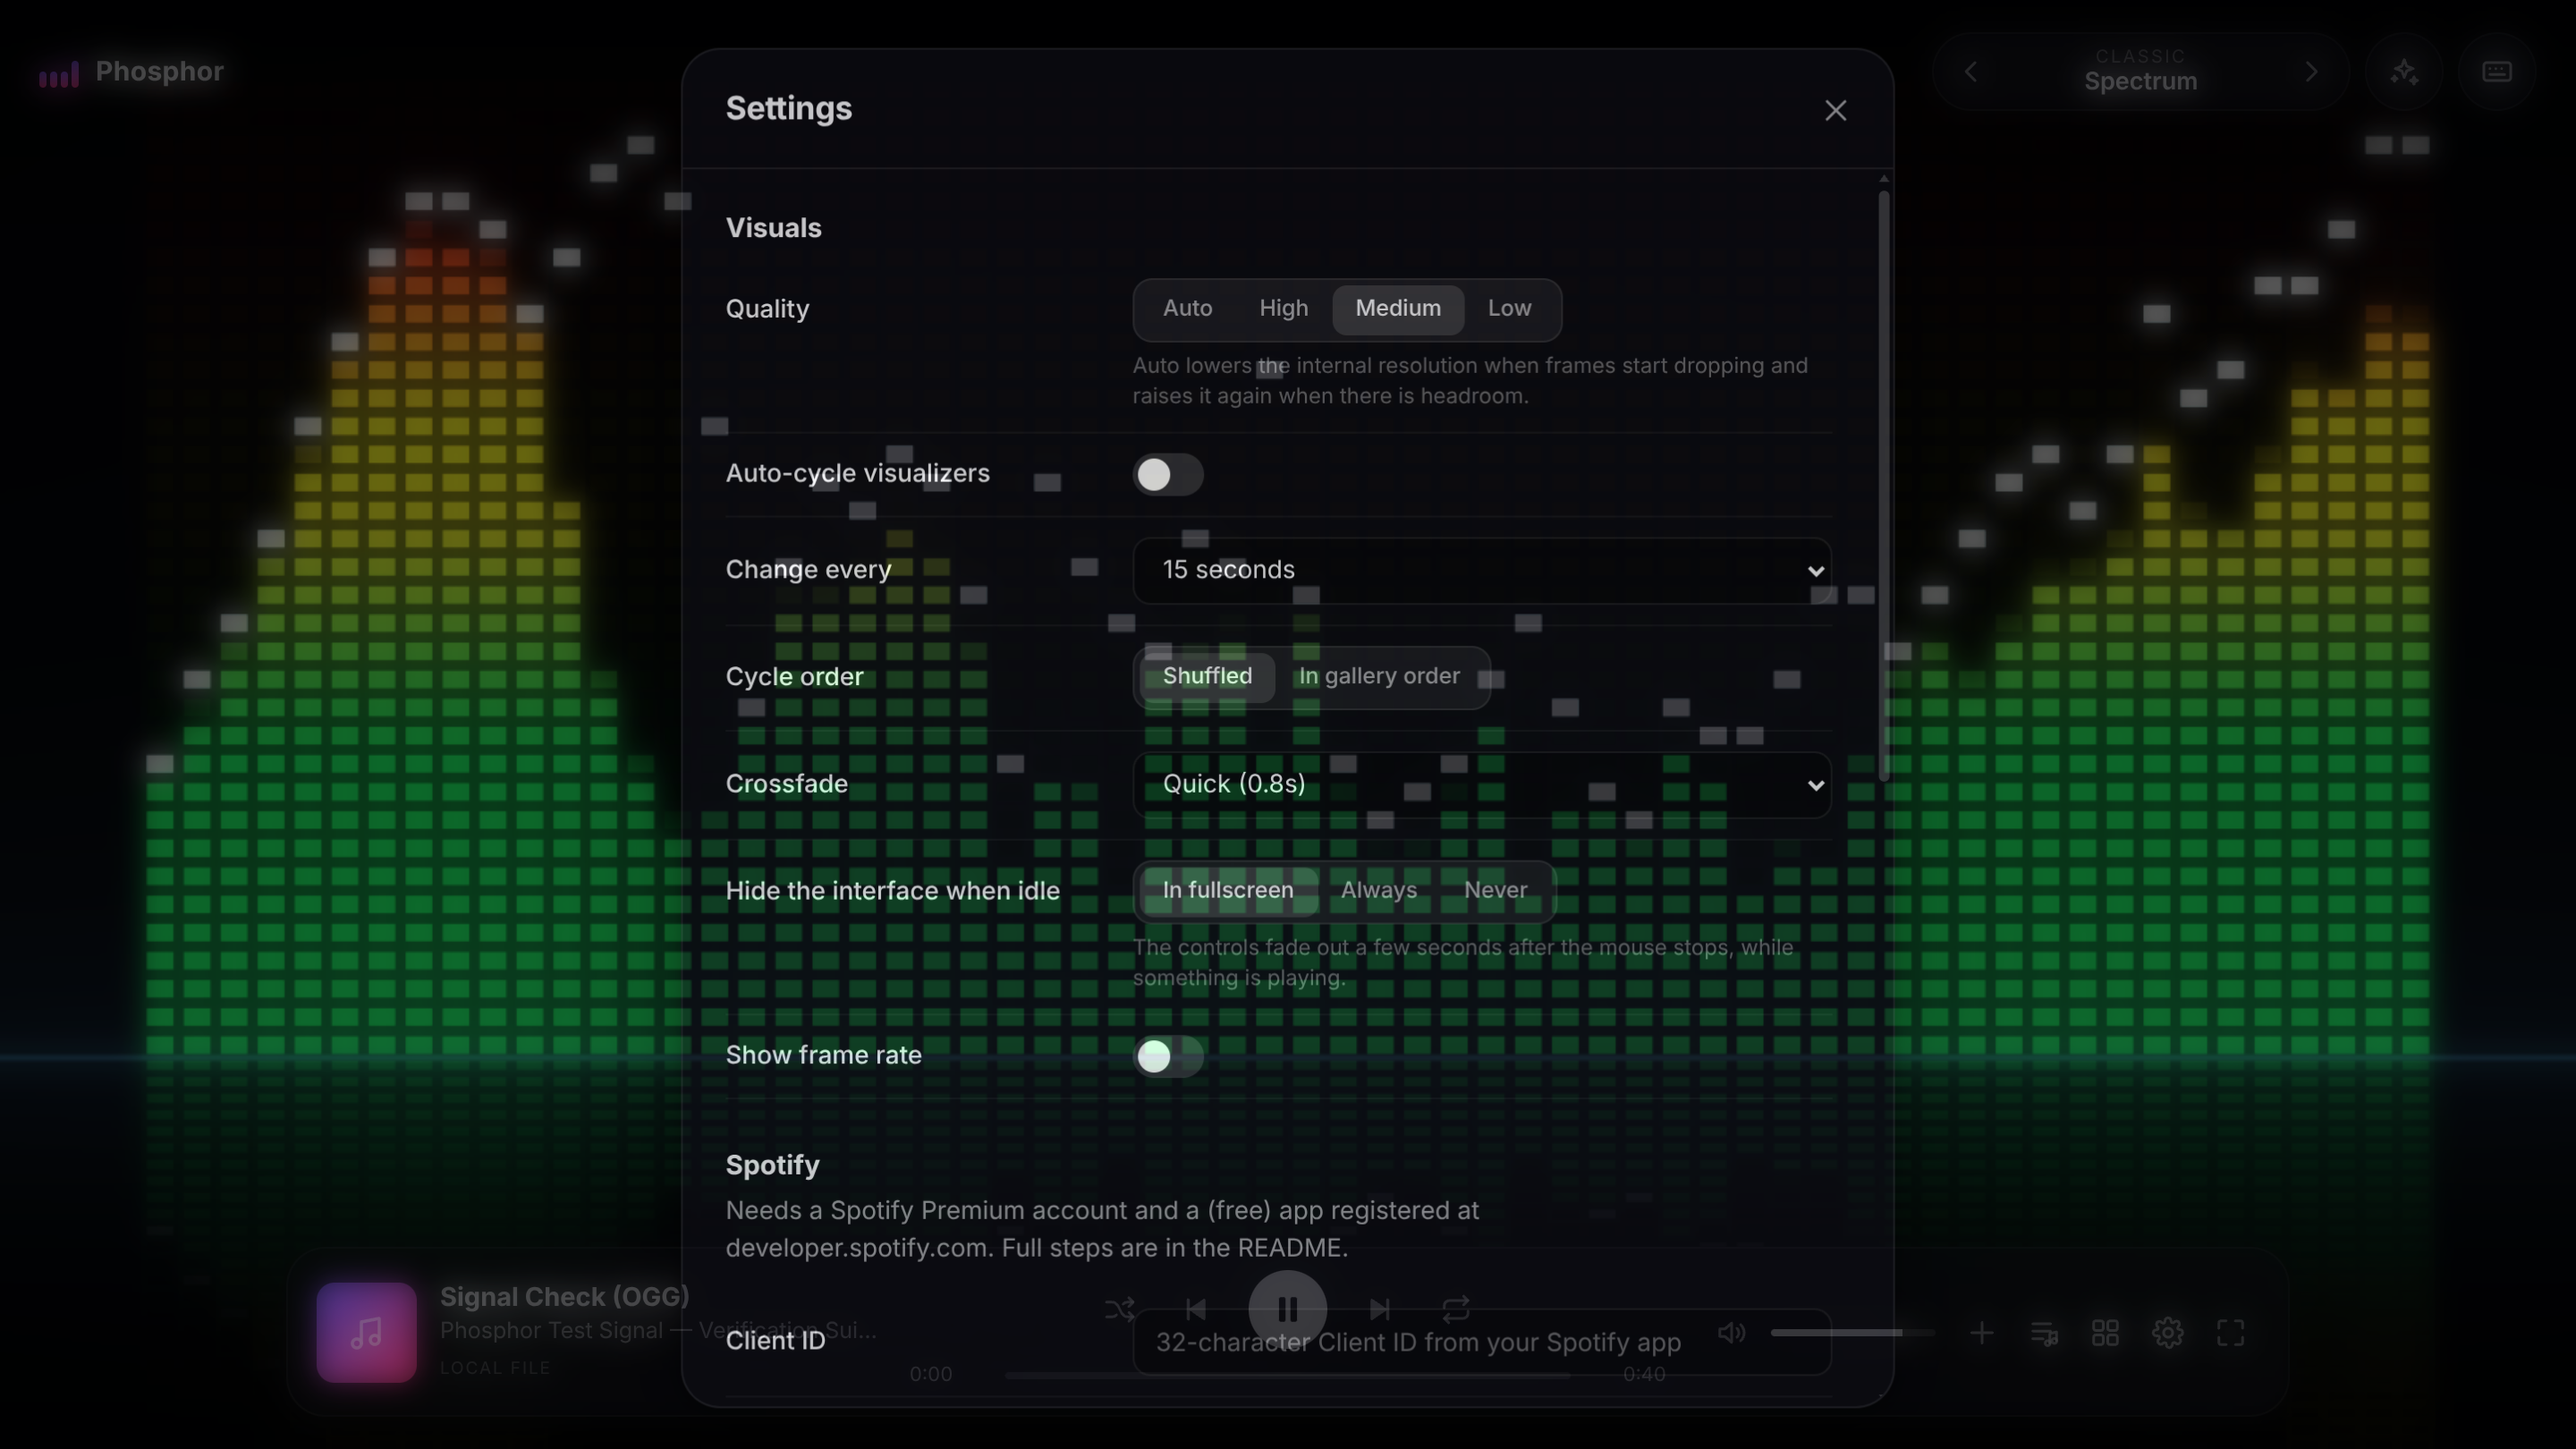
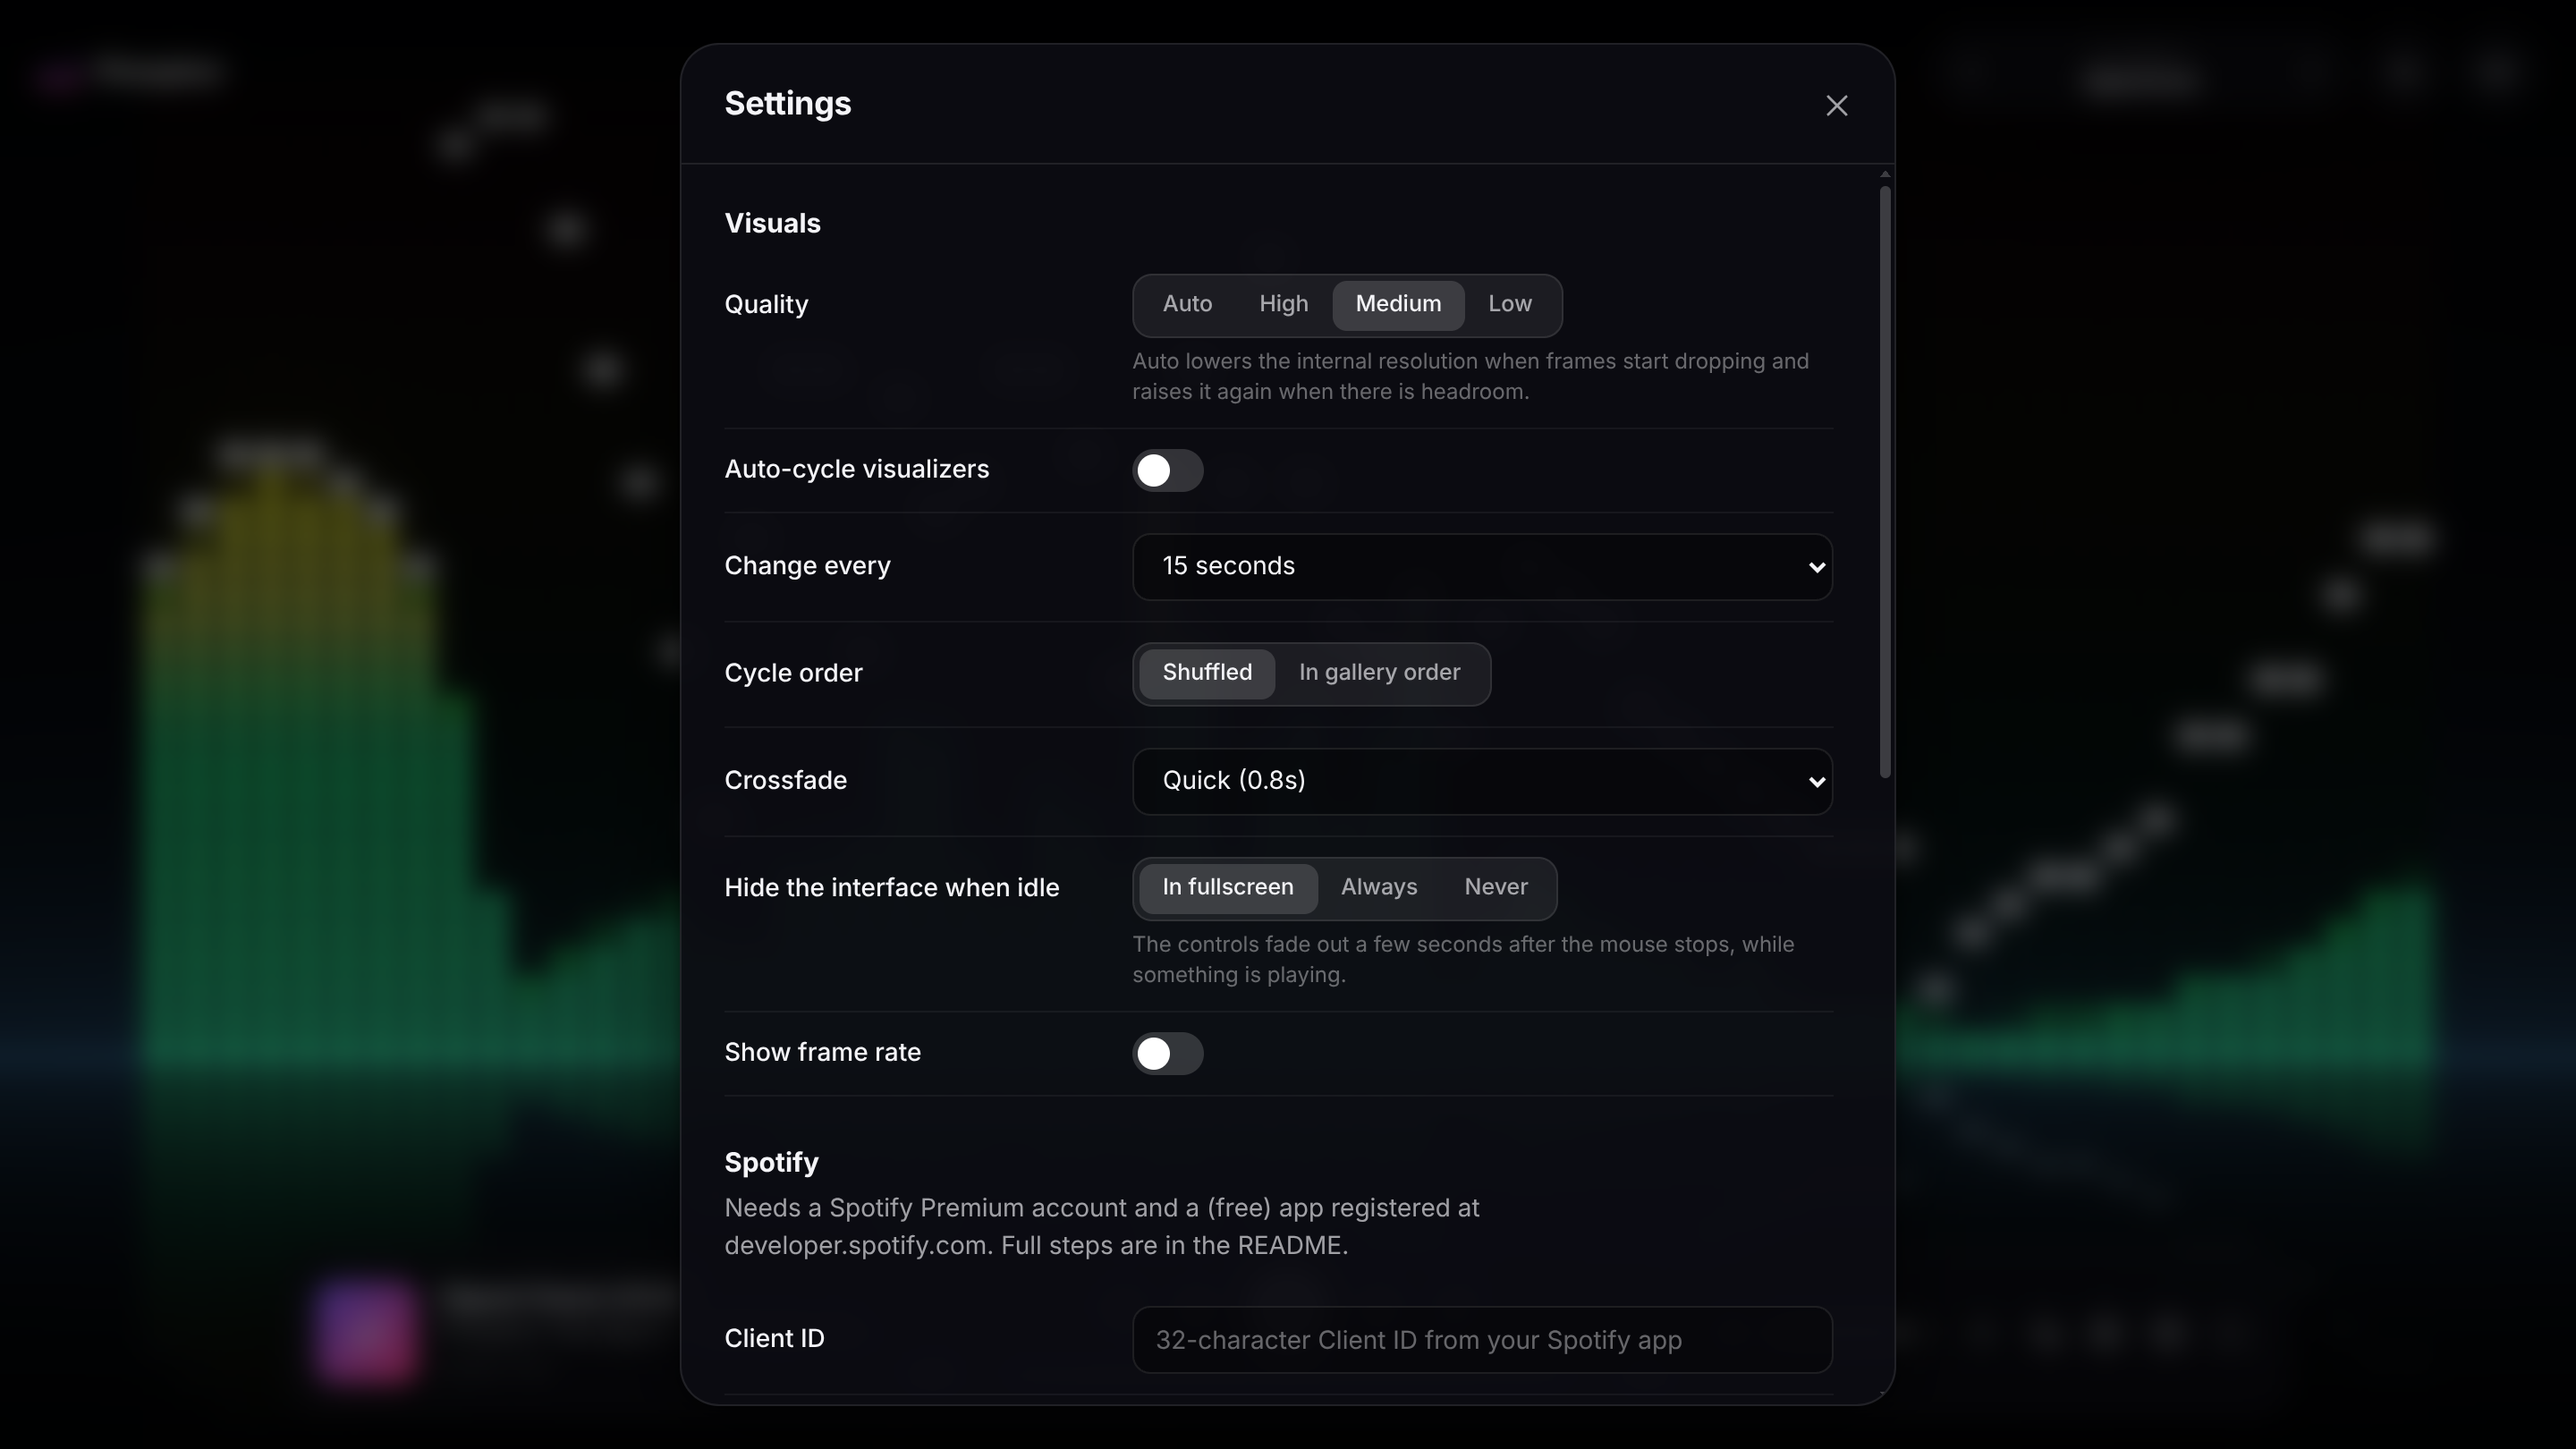
Start each session on a different MilkDrop preset
The renderer's live random stream had a fixed seed, so MilkDrop opened
on the same preset every time. Test renders reseed explicitly and stay
deterministic.

Claude-Session: https://claude.ai/code/session_01QbNHKRFDGpGbRETGv1cwDG

diff --git a/src/viz/renderer.ts b/src/viz/renderer.ts
@@ -115,7 +115,9 @@ export class Renderer {
   private lastTime = 0;
   private time = 0;
   private running = false;
-  private random = mulberry32(0x9e3779b9);
+  // Live use gets a fresh seed each session (so MilkDrop opens on a different preset);
+  // offlineRun() reseeds explicitly, so test renders stay deterministic.
+  private random = mulberry32((Math.random() * 2 ** 32) >>> 0);
 
   private quality: Quality = 'auto';
   private scale = 1;
